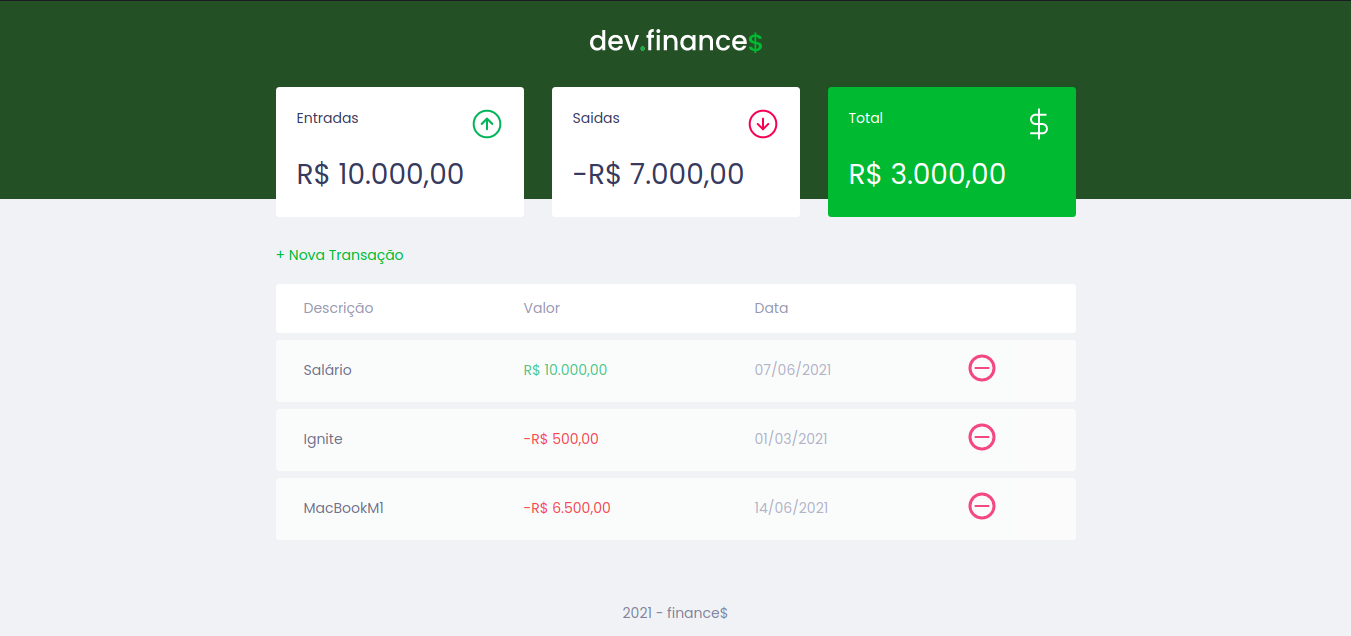
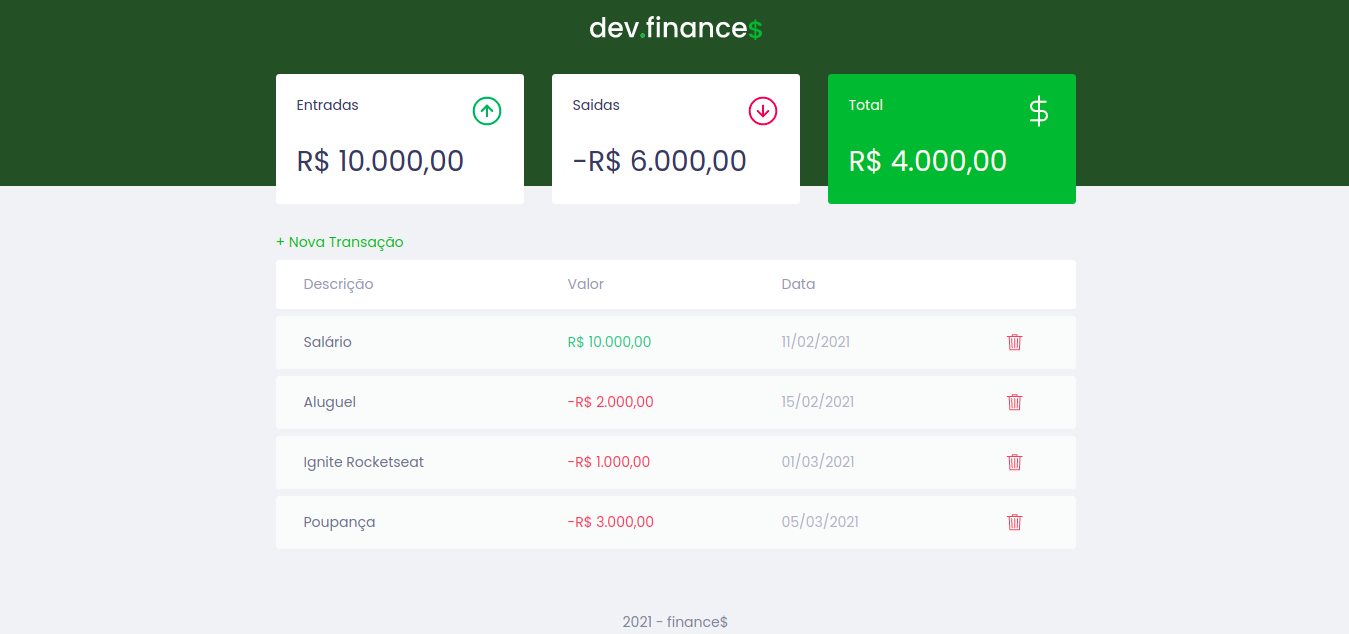
project finished

diff --git a/README.MD b/README.MD
@@ -1,9 +1,11 @@
 <h1 align="center">dev.finance💰</h1>
 
-<span align="center"><img src="public/finance.png"/></span>
+<span align="center">
+<img src="public/finance.png"/>
+<img src="public/finance1.png"/></span>
 
 ## 📝 Sobre
-Aplicação financeira de entradas e saidas, desenvolvida na maratona Discover promovido pela [Rocketseat](https://www.rocketseat.com.br).
+Aplicação financeira de entradas e saidas, desenvolvida na maratona Discover promovido pela [Rocketseat](https://www.rocketseat.com.br). Fiz uma pequena alteração deixando o valor total das transações dinâmicos, assim quando o saldo total vier a ficar negativo o usuário vai ver em destaque na cor vermelha que seu saldo está negativo. Acrescentado icones de lixeira para excluir uma transação.
 
 ---
 
